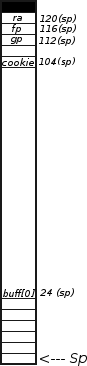
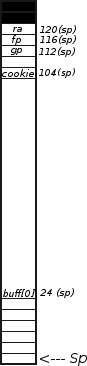
Stack 4 explanation and stack draw

Changed region(s): [[0.4598, 0.0301, 0.8736, 0.2104], [0.023, 0.0301, 0.4138, 0.2104], [0.023, 0.1503, 0.069, 0.2104]]

diff --git a/TP1/informe/main.tex b/TP1/informe/main.tex
@@ -109,21 +109,29 @@ Los ejercicios a analizar fueron diseñados especialmente para la compresión de
 \newpage
 \section{Uso}
 \subsection{Compilado}
-Dentro del entorno de NetBSD, en el directorio del proyecto ejecutar para cada archivo i:
-
+Ofrecemos dos formas de correr el trabajo práctico:
+\begin{enumerate}
+\item  Correr el run.sh dentro del entorno de NetBSD, en el directorio del proyecto, ejecutando:
+	\begin{verbatim}
+$ ./run.sh
+\end{verbatim}
+\item Dentro del entorno de NetBSD, en el directorio del proyecto ejecutar para cada archivo i:
 \begin{verbatim}
 $ gcc -g stack{i}.c -o stack{i}.o
 \end{verbatim}
+\end{enumerate}
+
+
 
 \subsection{Herramientas utilizadas}
 \subsubsection{GDB}
 
-GDB (Gnu Project Debugger) es una herramienta que permite entre otras cosas, correr el programa con la posibilidad de detenerlo cuando se cumple cierta condición, avanzar paso a paso y, entre otras cosas, analizar el stack frame actual de cada uno de ellos.
+GDB (Gnu Project Debugger) es una herramienta que permite entre otras cosas, correr el programa con la posibilidad de detenerlo cuando se cumple cierta condición, avanzar paso a paso y, entre otras cosas, analizar el stack frame actual de cada uno de ellos. También te permite, en caso de fallar el programa y habiendo sido levantado con la herramienta, conocer el estado de lo que ocurrió y produjo el fallo.
 
 
 \subsubsection{Objdump}
 
-Objdump es una herramienta muy util que despliega información sobre uno o más archivos objecto de manera que os permite ver el codigo assembler en ellos.
+Objdump es una herramienta muy útil que despliega información sobre uno o más archivos objeto de manera que nos permite ver el código assembler en ellos. Posee otras funcionalidades para ver información sobre archivos con código, pero nuestro uso se limito a ver el código assembler de los archivos, ya que nos daba la información necesaria para trabajar.
 
 \newpage
 \section{Programas}
@@ -134,7 +142,7 @@ Objdump es una herramienta muy util que despliega información sobre uno o más 
 \subsubsection{Descripción}
 
 \bigskip
-Mediante gdb podemos ver que la disposición del stack frame para este programa es el siguiente
+Mediante gdb podemos ver que la disposición del stack frame para este programa es la siguiente
 
 \bigskip
 
@@ -161,16 +169,16 @@ Al crecer las posiciones del array hacia arriba en el stack lo único que debemo
 Una manera de comprobar esto es ejecutar las siguientes lineas en una consola:
 
 \begin{lstlisting}
-input = 0000000000000000000000000000000000000000
-0000000000000000000000000000000000000000DCBA
+input = "0000000000000000000000000000000000000000
+0000000000000000000000000000000000000000DCBA"
 echo $input | ./stack1.o
 \end{lstlisting}
 
 O escapeando y en hexadecimal:
 
 \begin{lstlisting}
-input = 0000000000000000000000000000000000000000
-0000000000000000000000000000000000000000\x44\x43\x42\x41
+input = "0000000000000000000000000000000000000000
+0000000000000000000000000000000000000000\x44\x43\x42\x41"
 echo -e $input | ./stack1.o
 \end{lstlisting}
 
@@ -185,16 +193,16 @@ Lo que en ambos casos resultará en el output: "you win!"
 
 \subsubsection{Descripción}
 
-El stack será el mismo que el de la figura \textbf{(\ref{fig:stack1})}. La diferencia en este programa es que no inicializamos con un valor a cookie, pero al tener que sobreeescribirlo nos es indistinto.
+El stack será el mismo que el de la figura \textbf{(\ref{fig:stack1})}. La diferencia en este programa es que no inicializamos con un valor a cookie, pero al tener que sobreescribirlo nos es indistinto.
 
 \subsubsection{Solución}
 
 En este caso el hexadecimal que queremos que esté en la posición sp(104) es el 0x01020305, por lo tanto una posible solución es:
 
 \begin{lstlisting}
-input = 0000000000000000000000000000000000000000
-0000000000000000000000000000000000000000\x05\x03\x02\x01
-echo $input | ./stack2.o
+input = "0000000000000000000000000000000000000000
+0000000000000000000000000000000000000000\x05\x03\x02\x01"
+echo -e $input | ./stack2.o
 \end{lstlisting}
 \bigskip
 
@@ -208,12 +216,12 @@ Lo que resultará en el output: "you win!"
 Al igual que en los casos anteriores, el stack será el mismo que el de la figura \textbf{(\ref{fig:stack1})}.
 \subsubsection{Solución}
 
-El hexadecimal a escribir en esta caso es 0x01020005, de manera que una posible solución será:
+El hexadecimal a escribir en esta caso es 0x01020005, de manera que una posible solución será: 
 
 \begin{lstlisting}
-input = 0000000000000000000000000000000000000000
-0000000000000000000000000000000000000000\x05\x00\x02\x01
-echo $input | ./stack3.o
+input = "0000000000000000000000000000000000000000
+0000000000000000000000000000000000000000\x05\x00\x02\x01"
+echo -e $input | ./stack3.o
 \end{lstlisting}
 
 \bigskip
@@ -223,6 +231,33 @@ Lo que resultará en el output: "you win!"
 \subsection{stack4}
 \lstset{ language = C, numbers=left, tabsize=4, breaklines=true, frame=single }
 \lstinputlisting{./stack4.c}
+
+
+\subsubsection{Descripción}
+
+\begin{figure}[h!]
+	\centering
+	\includegraphics[height=9cm]{./recursos/stack4.png}
+	\caption{Gr\'afico del stack del programa stack4}
+    \label{fig:stack4}
+\end{figure}
+
+Este es el primer caso en el que tenemos dos stack frames, uno del \textbf{main} y otro que le corresponde a \textbf{stack4()}. 
+
+\subsubsection{Solución}
+
+Este caso es diferente a los anteriores porque el hexadecimal que espera cookie contiene el caracter 0x0A, que corresponde a un \textbf{line feed}, y por lo tanto no es un input válido para el \textbf{gets}.
+La solución en este caso es escribir directamente el \textbf{ra} con la posición de memoria donde se encuentra el "you win". 
+
+Se puede ver tambien en el stack que ra se encuentra a 96 posiciones del inicio de buff0. Sabiendo esto y usando el \textbf{objdump} para obtener la posición de memoria correspondiente a la frase, una posible solución es:
+
+\begin{lstlisting}
+perl -e 'print "a"x96 . "\x40\x0c\x40\x00"' | ./a.out
+\end{lstlisting}
+
+\bigskip
+
+Lo que resultará en el output: "you win!"
 
 \subsection{stack5}
 
@@ -238,8 +273,32 @@ Lo que resultará en el output: "you win!"
 \lstset{ language = C, numbers=left, tabsize=4, breaklines=true, frame=single }
 \lstinputlisting{./win.c}
 
+\newpage
 \section{Conclusión}
 
+   Como se puede apreciar, y como bien se aclara en el enunciado, y advierte NetBSD al compilar los programas, utilizar gets() es inseguro y no recomendable (hoy en día arreglado en los sistemas operativos) ya que abre la vulnerabilidad de ingresar información externa directamente en el stack del programa, logrando incluso poner código ejecutable en el mismo, pudiendo lograr el control del flujo del programa. 
+   \newline
+  Esta vulnerabilidad, y el uso de las herramientas gdb y objdump nos permitieron ver la manera de en los cinco casos conocer el stack, ver donde estaba la información que necesitabamos y que era lo que debíamos inyectar para obtener el resultado que buscabamos.  
+    En los primero tres casos, con identificar cual era la cookie que debía coincidir y completando esos pocos valores sobrepasando el buffer con la funcion gets(), nos bastó con un echo con pipe a la ejecución del programa.
+    \newline
+   En los últimos dos casos nos valimos de perl para inyectar la información en el buffer, porque resulta menos tedioso para completar la información necesaria, además de ser un caso más general (si el buffer fuera $n$ bytes el ingreso a mano no es rentable) \newline
+   Cabe destacar que el uso de echo es necesario para los casos 2 en adelante, ya que deben ingresarse carácteres que normalmente no podrían mandarse por el teclado.\newline
+   En el caso stack2, podría haberse realizado la entrada mediante $[...]000^{\circ}E^{\circ}C^{\circ}B^{\circ}A$
+   , siendo:
+   
+   $^{\circ}E: ctrl+shift+E$
+    
+   $^{\circ}C: ctrl+shift+C$
+   
+   $^{\circ}B: ctrl+shift+B$
+   
+   $^{\circ}A: ctrl+shift+A$
+   
+   Pero el problema surge en $ctrl+shift+C$, ya que $ctrl+C$ produce la $SignalTrap$ 2, INT (que interrumpe la ejecución del programa). \newline
+   Es por eso que se envían los caracteres desde echo con las opciones $-ne$ para interpretar las secuencias de escape y poder mandar los caracteres con su codificacion en HEX mediante \\xFF.
+  \newline Stack 4 agrega la dificultad de necesitar mandar "0a", que es el LineFeed, y se almacena como 00 por estar mandando texto en una consola. Es por esto que en vez de modificar el valor de la cookie se modificó la dirección dónde se almacena ra (return andress) con la posición de memoria de la función que imprime el mensaje ganador.
+   \newline Stack 5 es similar, pero al ser sólo una función necesita un main que la llame. Respetando la consigna, se compiló stack5.c como se encuentra, pero la función main.c que la llama incluye a su vez una función win() que imprime lo deseado. Por lo que de manera análoga al caso 4, pasando la dirección de memoria de la función en el valor dónde se almacena ra en el stack puedo romper el flujo de ejecución del programa con mucha libertad.
+   
 
 
 
